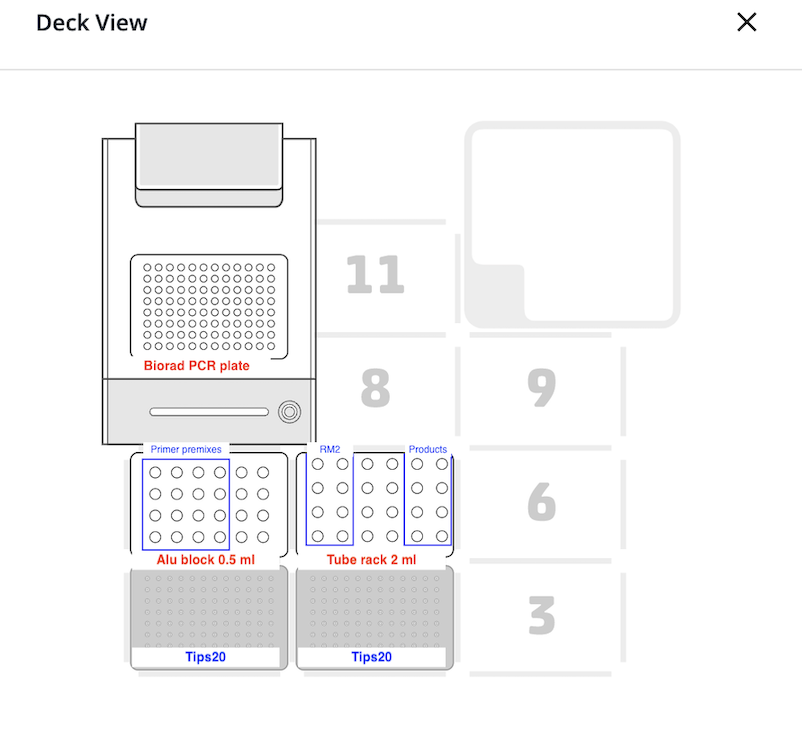
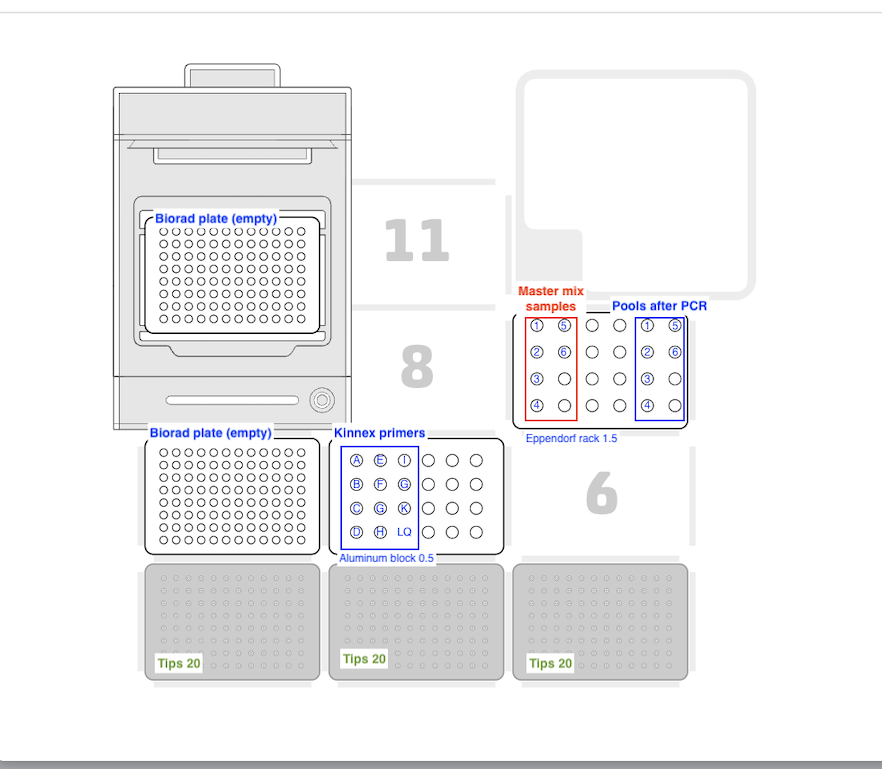
update deck

diff --git a/08-kinnex-pcr.py b/08-kinnex-pcr.py
@@ -16,7 +16,7 @@ metadata = {
 #================================================================
 ncycles = 9
 primervol = 2.5
-MMvol = 10
+MMvol = 22.5
 MMwells = ['A1', 'B1', 'C1'] # on rack
 #MMwells = ['A1', 'B1', 'C1', 'D1', 'A2', 'B2'] # on rack
 poolwells = ['A5', 'B5', 'C5'] # on rack
@@ -47,12 +47,15 @@ def run(ctx: protocol_api.ProtocolContext):
     ctx.comment('--------------------------------')
     
     odtc = ctx.load_module(module_name='thermocyclerModuleV2')
-    primerblock = ctx.load_labware('opentrons_24_aluminumblock_nest_0.5ml_screwcap', '4', 'Alu block')
-    rack = ctx.load_labware('opentrons_24_tuberack_eppendorf_1.5ml_safelock_snapcap', '5', 'MM tube rack')
+    primerblock = ctx.load_labware('opentrons_24_aluminumblock_nest_0.5ml_screwcap', '5', 'Alu block')
+    int_primerplate = ctx.load_labware('biorad_96_wellplate_200ul_pcr', '4','Intermediate primer plate')
+    rack = ctx.load_labware('opentrons_24_tuberack_eppendorf_1.5ml_safelock_snapcap', '9', 'MM tube rack')
     pcrplate = odtc.load_labware('biorad_96_wellplate_200ul_pcr') # IMPORTANT - use biorad plates!!!
 
     tips20_single = [ctx.load_labware('opentrons_96_filtertiprack_20ul', slot) for slot in ['1', '2']]
+    tips20_multi = [ctx.load_labware('opentrons_96_filtertiprack_20ul', slot) for slot in ['3']]
     s20 = ctx.load_instrument('p20_single_gen2', mount='left', tip_racks=tips20_single)
+    m20 = ctx.load_instrument('p20_multi_gen2', mount='right', tip_racks=tips20_multi)
 
     # set s20 flow rates globally, default is 7.56 
     # s20.flow_rate.aspirate = 5
@@ -78,23 +81,61 @@ def run(ctx: protocol_api.ProtocolContext):
             blow_out = True, 
             blowout_location = 'source well' # blowout is required in distribute
         )
-    # # Primer mix addition
+
+    # Transfer primers from block to intermediate plate
+    ctx.comment("Transfer primers from block to intermediate plate")
+    ctx.comment("--------------------------------------")
+    thisprimervol = primervol * nsamples * 1.1
+    s20.transfer(
+        thisprimervol,
+        [primerblock[well] for well in primerwells[:plex]],
+        int_primerplate.wells()[:plex], 
+        mix_before = (3, thisprimervol/2)
+    )
+    ctx.comment("--------------------------------------")
+
+    # Add primers with multichannel
     for i in range(nsamples):
-        distribute_wells =  [ j + str(i*2 + 1) for j in rows ] + [ j + str(i*2 + 2) for j in rows ]
-        if len(distribute_wells[:plex]) != len(primerwells[:plex]):
-            exit('Primer and PCR plate wells do not match!')
-        ctx.comment('Adding primers to wells:')
-        ctx.comment(str(distribute_wells[:plex]))
-        ctx.comment("--------------------------------------")
-        s20.transfer(
+        samplecols = 'A' + str(i*2 + 1)
+        ctx.comment('Add primers to PCR plate for sample ' + MMwells[i])
+        ctx.comment('--------------------------------------')
+        m20.transfer(
             primervol,
-            [primerblock[well] for well in primerwells[:plex]],
-            [pcrplate[well] for well in distribute_wells[:plex]], 
-            new_tip = 'always', 
-            air_gap = 1,
-            mix_after = (3, 15), 
+            int_primerplate['A1'],
+            pcrplate.wells_by_name()[samplecols],
+            mix_before = (1, primervol),
+            mix_after = (3, (MMvol + primervol)/2),
             blow_out = False
+        )
+        if plex > 8:
+            samplecols = 'A' + str(i*2 + 2)
+            m20.transfer(
+                primervol,
+                int_primerplate['A2'],
+                pcrplate.wells_by_name()[samplecols],
+                mix_after = (3, (MMvol + primervol)/2),
+                blow_out = False
             )
+        ctx.comment('--------------------------------------')
+
+
+    # # Primer mix addition
+    # for i in range(nsamples):
+    #     distribute_wells =  [ j + str(i*2 + 1) for j in rows ] + [ j + str(i*2 + 2) for j in rows ]
+    #     if len(distribute_wells[:plex]) != len(primerwells[:plex]):
+    #         exit('Primer and PCR plate wells do not match!')
+    #     ctx.comment('Adding primers to wells:')
+    #     ctx.comment(str(distribute_wells[:plex]))
+    #     ctx.comment("--------------------------------------")
+    #     s20.transfer(
+    #         primervol,
+    #         [primerblock[well] for well in primerwells[:plex]],
+    #         [pcrplate[well] for well in distribute_wells[:plex]], 
+    #         new_tip = 'always', 
+    #         air_gap = 1,
+    #         mix_after = (3, 15), 
+    #         blow_out = False
+    #         )
 
     # PCR
     ctx.pause("Optional pause to cover plate with aluminum foil") 
